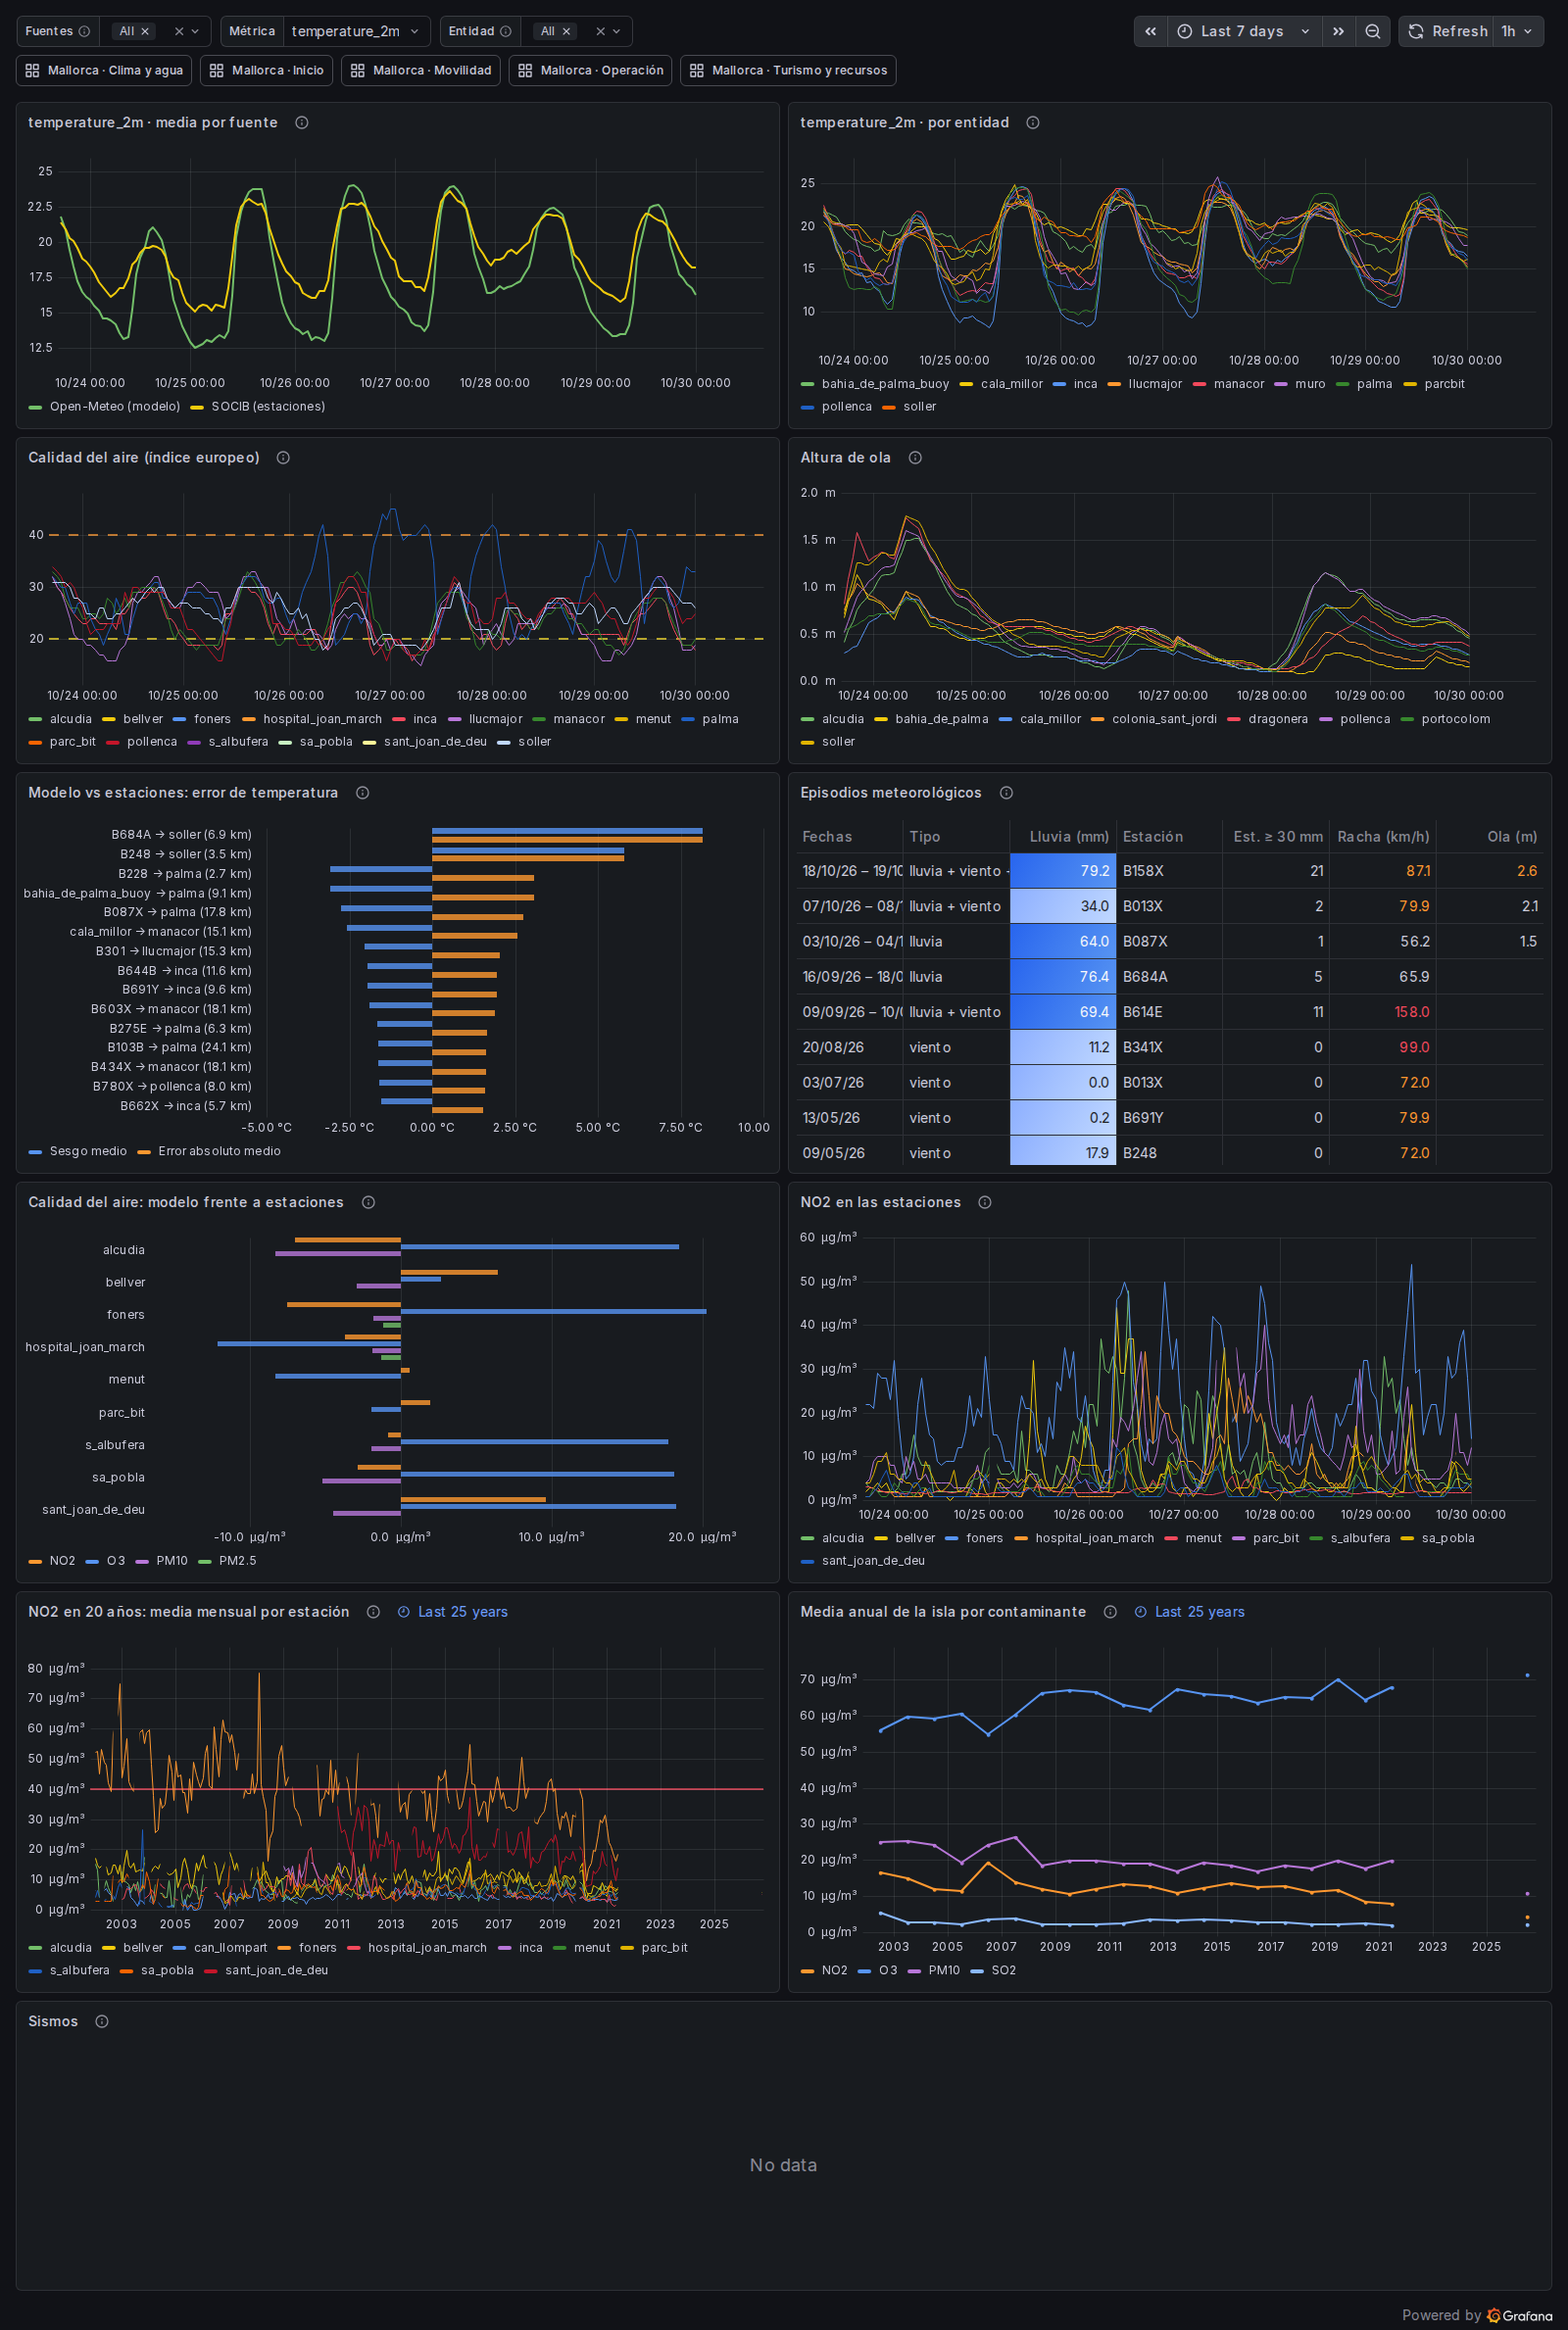
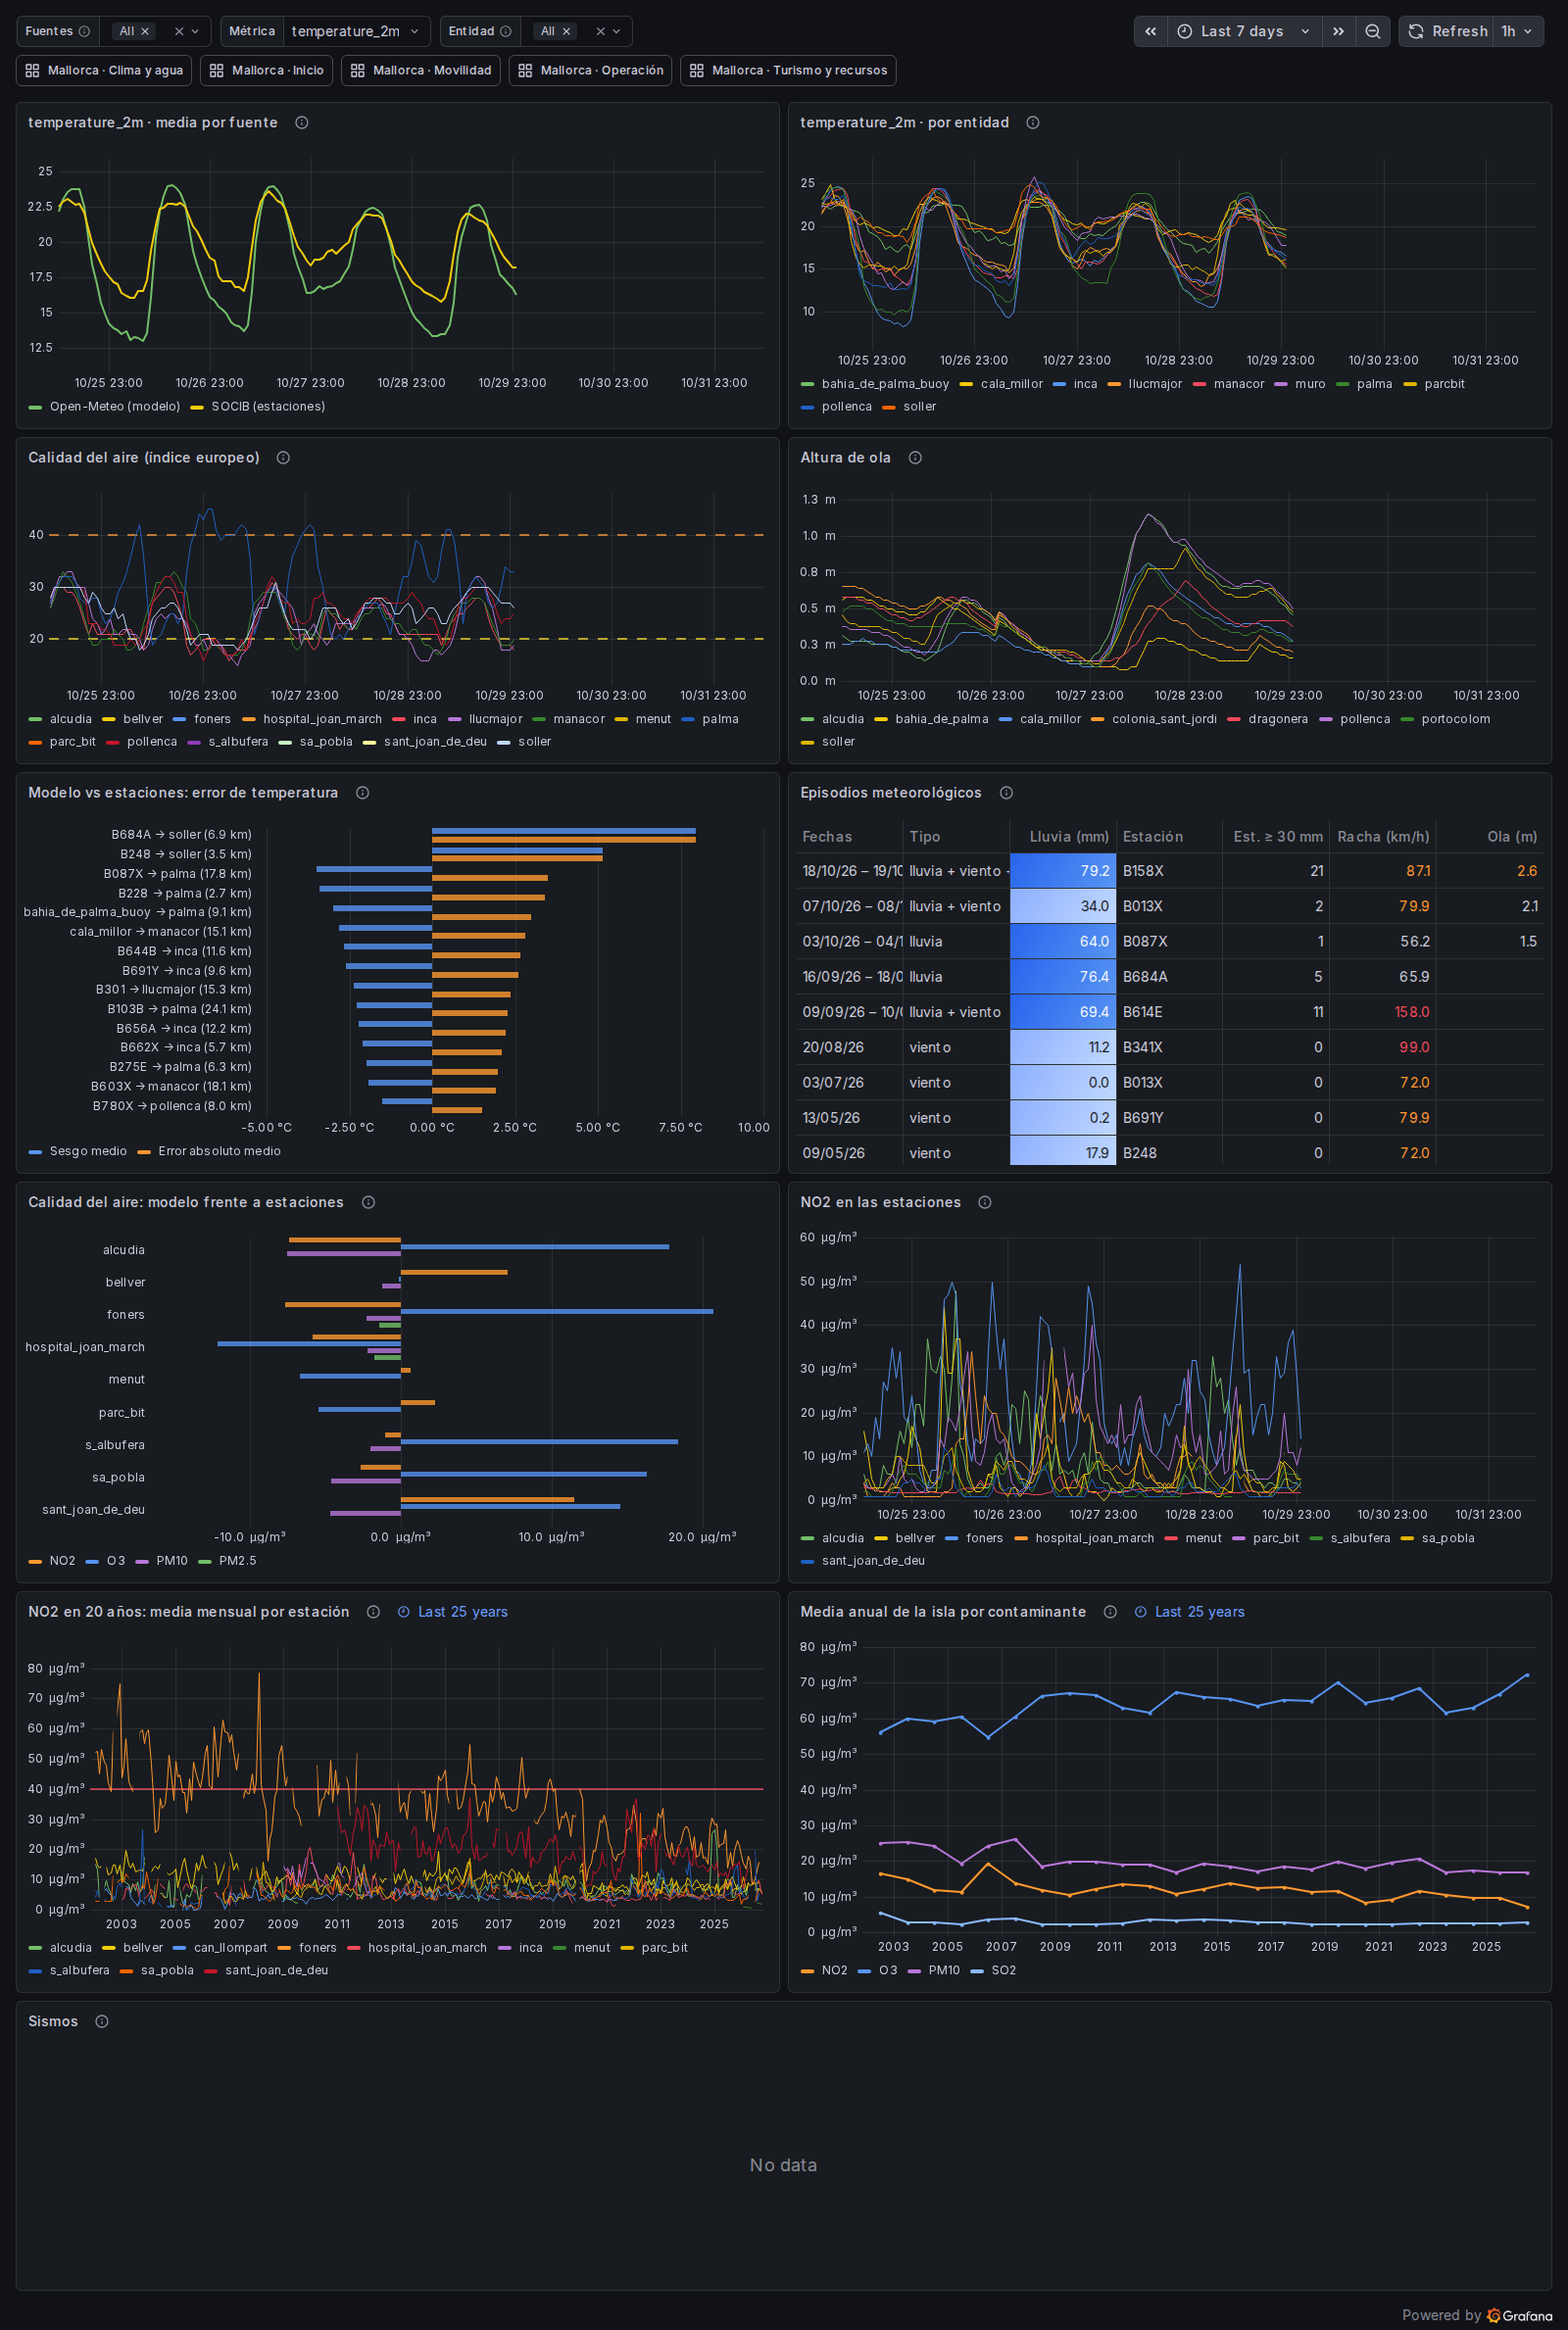
📝 docs: verified EEA data, backfill results and screenshot

diff --git a/connectors/eea_air_quality/README.md b/connectors/eea_air_quality/README.md
@@ -1,10 +1,12 @@
 # Calidad del aire de la EEA (estaciones oficiales de Mallorca)
 
 - **Fuente**: [Air Quality Download Service](https://eeadmz1-downloads-webapp.azurewebsites.net/) de la Agencia
-  Europea de Medio Ambiente: los datos *up-to-date* (E2a, sin validar) que las redes nacionales envían cada hora. En
-  Mallorca son las estaciones de la red del Govern.
+  Europea de Medio Ambiente. En Mallorca son las estaciones de la red del Govern. Tiene dos conjuntos de datos, y cada
+  año está solo en uno:
+  - *up-to-date* (E2a, `dataset: 1`): el año en curso, sin validar, que las redes envían cada hora;
+  - verificados (E1a, `dataset: 2`): los años anteriores ya validados por la red, desde 2013 en Mallorca.
 - **Autenticación**: ninguna.
-- **Datos**: horarios, unas dos horas por detrás del tiempo real, en µg/m³.
+- **Datos**: horarios, en µg/m³. Los del año en curso van unas dos horas por detrás del tiempo real.
 
 | Métrica | Contaminante (código EEA) |
 |---|---|
@@ -32,10 +34,15 @@ CAMS (`fct_air_quality_model_bias_daily`).
 
 ## Cómo funciona
 
-1. `extract` hace una búsqueda JSON (`POST /ParquetFile/urls`) por país, contaminantes y fechas. La respuesta es la
-   lista de ficheros Parquet, uno por punto de muestreo (estación y contaminante) con el año en curso. Se descargan
-   los de las estaciones del YAML y cada uno se guarda **sin tocar** en bronze (base64, con su SHA-256), con el punto
-   de muestreo como partición.
+1. `extract` parte la ventana por años: los días del año en curso se buscan en los datos *up-to-date* y los
+   anteriores en los verificados. Cada búsqueda es un JSON (`POST /ParquetFile/urls`) por país, contaminantes y
+   fechas, y la respuesta es la lista de ficheros Parquet, uno por punto de muestreo (estación y contaminante). Se
+   descargan los de las estaciones del YAML.
+   - Bronze guarda las filas de la ventana de cada fichero, sin cambiar ninguna, como Parquet (base64), con el
+     SHA-256 y el tamaño del fichero entero. La partición es el punto de muestreo, con `_verified` detrás en los
+     ficheros verificados.
+   - Un fichero verificado trae los trece años de golpe (1,4 MB el NO₂ de Foners), así que se descarga una sola vez
+     por proceso: un backfill lee los mismos ficheros en cada tramo de 92 días.
 2. `normalize` lee el Parquet con pyarrow y se queda con las horas de la ventana:
    - Las horas de los ficheros españoles son UTC+01 fijo (el *Timezone* de los metadatos de la EEA), así que
      10:00-11:00 son las 09:00 UTC.
@@ -63,9 +70,12 @@ sale de un modelo, igual que la de Open-Meteo.
   - `07003004` (Alcúdia): no estaba en OpenAQ.
 - **Estaciones fuera**: `07040007` (Palma) queda fuera hasta conocer su ubicación.
 - **Parc Bit**: las coordenadas del Govern están a 1,5 km de las de OpenAQ, que se mantienen.
-- **Bronze**: cada fichero trae el año entero, así que una ejecución guarda unos 4 MB en bronze aunque la ventana
-  sea de un día.
-- **Datos sin validar**: los valores verificados (E1a, años anteriores) son otro dataset (`dataset: 2`).
+- **Datos sin validar**: los del año en curso son provisionales. Cuando la EEA publique ese año verificado, un
+  `make backfill` de ese año los sustituye en silver, porque la clave (estación, contaminante, hora) es la misma.
+- **Año anterior**: la EEA publica los datos verificados de un año en otoño del siguiente, y los *up-to-date* solo
+  traen el año en curso. Hasta entonces, el año anterior no está en ninguno de los dos.
+- **Solape con la GOIB**: los ficheros verificados empiezan en 2013 y el histórico de la GOIB llega a junio de 2021.
+  El backfill empieza en julio de 2021 para que cada mes tenga una sola fuente en `fct_air_quality_monthly`.
 
 Prueba real (2026-10-29, 30 días):
 
@@ -83,4 +93,6 @@ Frente al modelo:
 - Alcúdia está a 12 km de su punto del modelo (Pollença): ahí el modelo se queda corto de PM10 (−9,6 µg/m³).
 
 Fixtures en `tests/fixtures/`: el listado real de la búsqueda (Baleares y tres ficheros de Madrid) y cinco ficheros
-reales recortados al 10-20 de octubre de 2026, con el corte de la fuente incluido.
+reales recortados al 10-20 de octubre de 2026, con el corte de la fuente incluido. Además, el listado real de los
+ficheros verificados (Baleares y uno de Madrid) y el fichero verificado del NO₂ de Foners recortado al 29-31 de
+diciembre de 2025.

diff --git a/ROADMAP.md b/ROADMAP.md
@@ -58,7 +58,7 @@ Leyenda: ✅ hecho · 🟡 en curso · ⬜ pendiente · 🔬 requiere investigac
 | ✅ | — | **Calidad del aire de la EEA** (sustituye a OpenAQ) | Servicio de descarga de la EEA, sin clave: búsqueda JSON y un Parquet por estación y contaminante, horario y unas dos horas por detrás del tiempo real. 9 estaciones oficiales de Mallorca; coordenadas de OpenAQ, porque los metadatos de la EEA no las traen para España. OpenAQ se probó con clave: mismas estaciones con un 30 % de las horas y duplicados. Mart `fct_air_quality_model_bias_daily` (modelo CAMS frente a estación) |
 | ✅ | — | **OpenAQ v3** (probado, no se integra) | Con clave: 8 estaciones activas en Mallorca, todas de la EEA, pero solo con un 30 % de las horas, y Foners y Bellver duplicados. Sustituido por la descarga directa de la EEA (fila anterior) |
 | ✅ | — | **aqicn** (probado, no se integra) | Con token: en Mallorca hay 7 estaciones, todas de la red del Govern y atribuidas a la EEA (Foners, Bellver, Hospital Joan March, Sant Joan de Déu, Alcúdia, S'Albufera y Sa Pobla). Solo da la última hora, sin histórico, y como subíndices AQI de EE. UU., no como concentraciones. La previsión diaria (O₃, PM10, PM2.5, UV) es de modelo, como la de Open-Meteo. Sirvió para algo: sus coordenadas confirman las del Govern para Sant Joan de Déu (07040006) y Alcúdia (07003004) |
-| ⬜ | — | **EEA verificados** (`eea_air_quality` con `dataset: 2`) para cubrir el hueco de julio de 2021 a 2025 entre el histórico de la GOIB y los datos actuales |
+| ✅ | — | **EEA verificados** (E1a, en `eea_air_quality`) | Cada año está en un solo conjunto: los ficheros *up-to-date* solo traen el año en curso y los verificados todos los anteriores desde 2013, en un fichero por punto de muestreo. El conector parte la ventana por años, guarda en bronze solo las filas de la ventana y descarga cada fichero verificado una vez por proceso. Backfill de julio de 2021 a 2025: `fct_air_quality_monthly` es continuo desde 2002 |
 | ✅ | — | **GOIB** (histórico de calidad del aire) | API CKAN del catálogo (`package_show`), sin clave, CC BY. 11 estaciones de Mallorca, de 2002 a junio de 2021 en tres ficheros por estación (hasta 2019, 2020 y 2021) con tres formatos distintos. El periodo 1-24 es la hora que empieza en UTC+01, comprobado contra la EEA. Conector de histórico (`enabled: false`, `make backfill`); bronze guarda las líneas de la ventana y el SHA-256 del fichero. Mart `fct_air_quality_monthly` (GOIB + EEA). Prueba real: 4,98 M valores en ~45 min; NO₂ de Foners de 52,7 µg/m³ (2002) a 31,6 (2019) y 24 (2020). Fallos de la fuente resueltos: el histórico de Menut se solapa con su fichero de 2020 y Hospital Joan March trae filas de 2002 sin periodo |
 | ⬜ | — | Plantilla `make new-connector NAME=x` que genere la carpeta, YAML y test vacíos |
 | ⬜ | — | Script `make record-fixtures CONNECTOR=x` para regrabar respuestas reales |

diff --git a/README.md b/README.md
@@ -118,7 +118,7 @@ Otros comandos: `make help`.
 | [dataestur](connectors/dataestur/README.md) | ✅ | Turismo mensual de Baleares: turistas internacionales y gasto, ocupación hotelera y pasajeros del aeropuerto de Palma | No |
 | [water_reserves](connectors/water_reserves/README.md) | ✅ | Reservas de agua subterránea de Mallorca por acuífero y de la isla, mensuales (10 años de la isla) | No |
 | [goib_air_quality](connectors/goib_air_quality/README.md) | ✅ histórico | NO₂, O₃, PM10, PM2.5, SO₂ y CO horarios de 11 estaciones oficiales de Mallorca, de 2002 a junio de 2021 (catálogo del Govern). Solo con `make backfill` | No |
-| [eea_air_quality](connectors/eea_air_quality/README.md) | ✅ | NO₂, O₃, PM10, PM2.5, SO₂ y CO horarios de 9 estaciones oficiales de Mallorca (red del Govern, vía la EEA) | No |
+| [eea_air_quality](connectors/eea_air_quality/README.md) | ✅ | NO₂, O₃, PM10, PM2.5, SO₂ y CO horarios de 9 estaciones oficiales de Mallorca (red del Govern, vía la EEA), verificados desde 2013 | No |
 
 ### Open-Meteo
 
@@ -200,6 +200,12 @@ contaminantes se llaman como en Open-Meteo, y `fct_air_quality_model_bias_daily`
 CAMS. En Grafana, las estaciones aparecen en el mapa de Inicio y el error del modelo en Tiempo y entorno. Prueba
 real: el modelo se queda corto de NO₂ junto al tráfico de Foners (−6 µg/m³) y se pasa de ozono en Palma (+20), que
 es justo donde el NO del tráfico lo consume.
+
+Los años anteriores salen de los ficheros verificados de la EEA (E1a, desde 2013), porque los *up-to-date* solo
+traen el año en curso: el conector parte la ventana por años y busca cada parte en su conjunto. Un backfill de julio
+de 2021 a 2025 (1,38 millones de valores horarios en 19 tramos, unos 10 minutos) une el histórico de la GOIB con los
+datos actuales, y `fct_air_quality_monthly` queda continuo desde 2002. El NO₂ de Foners se queda en torno a 22 µg/m³
+tras el confinamiento (21,6 en 2025), sin volver a los 31,6 de 2019.
 
 ### Histórico de calidad del aire (GOIB)
 

diff --git a/CHANGELOG.md b/CHANGELOG.md
@@ -5,6 +5,19 @@ Formato basado en [Keep a Changelog](https://keepachangelog.com/es-ES/1.1.0/) y
 
 ## [Unreleased]
 
+### Added
+
+- Verified EEA air quality data (E1a) for previous years: `eea_air_quality` splits the window by year and reads the
+  current year from the up-to-date files and earlier years from the verified ones (2013 onwards). A backfill of July
+  2021 to 2025 closes the gap between the GOIB history and the live feed, so `fct_air_quality_monthly` is continuous
+  from 2002. Verified files hold every year, so they are downloaded once per process.
+
+### Changed
+
+- `eea_air_quality` keeps in bronze only each file's rows of the window (unchanged, as Parquet), with the SHA-256 and
+  size of the whole file, instead of the whole file: a verified file holds thirteen years. The `dataset` option is
+  gone: the extractor picks the dataset by year.
+
 ## [0.7.0] - 2026-10-31
 
 ### Added

diff --git a/connectors/goib_air_quality/README.md b/connectors/goib_air_quality/README.md
@@ -77,8 +77,9 @@ entidades se llaman igual que en `eea_air_quality`, así que una estación es un
 
 ## Limitaciones
 
-- **Hueco de julio de 2021 a 2025**: no está ni en este catálogo ni en los datos *up-to-date* de la EEA. Los
-  ficheros verificados de la EEA (E1a, `dataset: 2` en `eea_air_quality`) podrían cubrirlo.
+- **De julio de 2021 en adelante**: no está en este catálogo. Lo cubren los ficheros verificados de la EEA, que
+  `eea_air_quality` lee para los años anteriores al actual (`make backfill CONNECTORS=eea_air_quality
+  START=2021-07-01 END=2025-12-31`).
 - **Estación 07040006**: el catálogo la llama Sant Joan de Déu, en Coll d'en Rabassa, y aqicn coincide.
   Las dos fuentes la llaman `sant_joan_de_deu`.
 - **Parc Bit**: las coordenadas del catálogo están a 1,5 km de las de OpenAQ.
